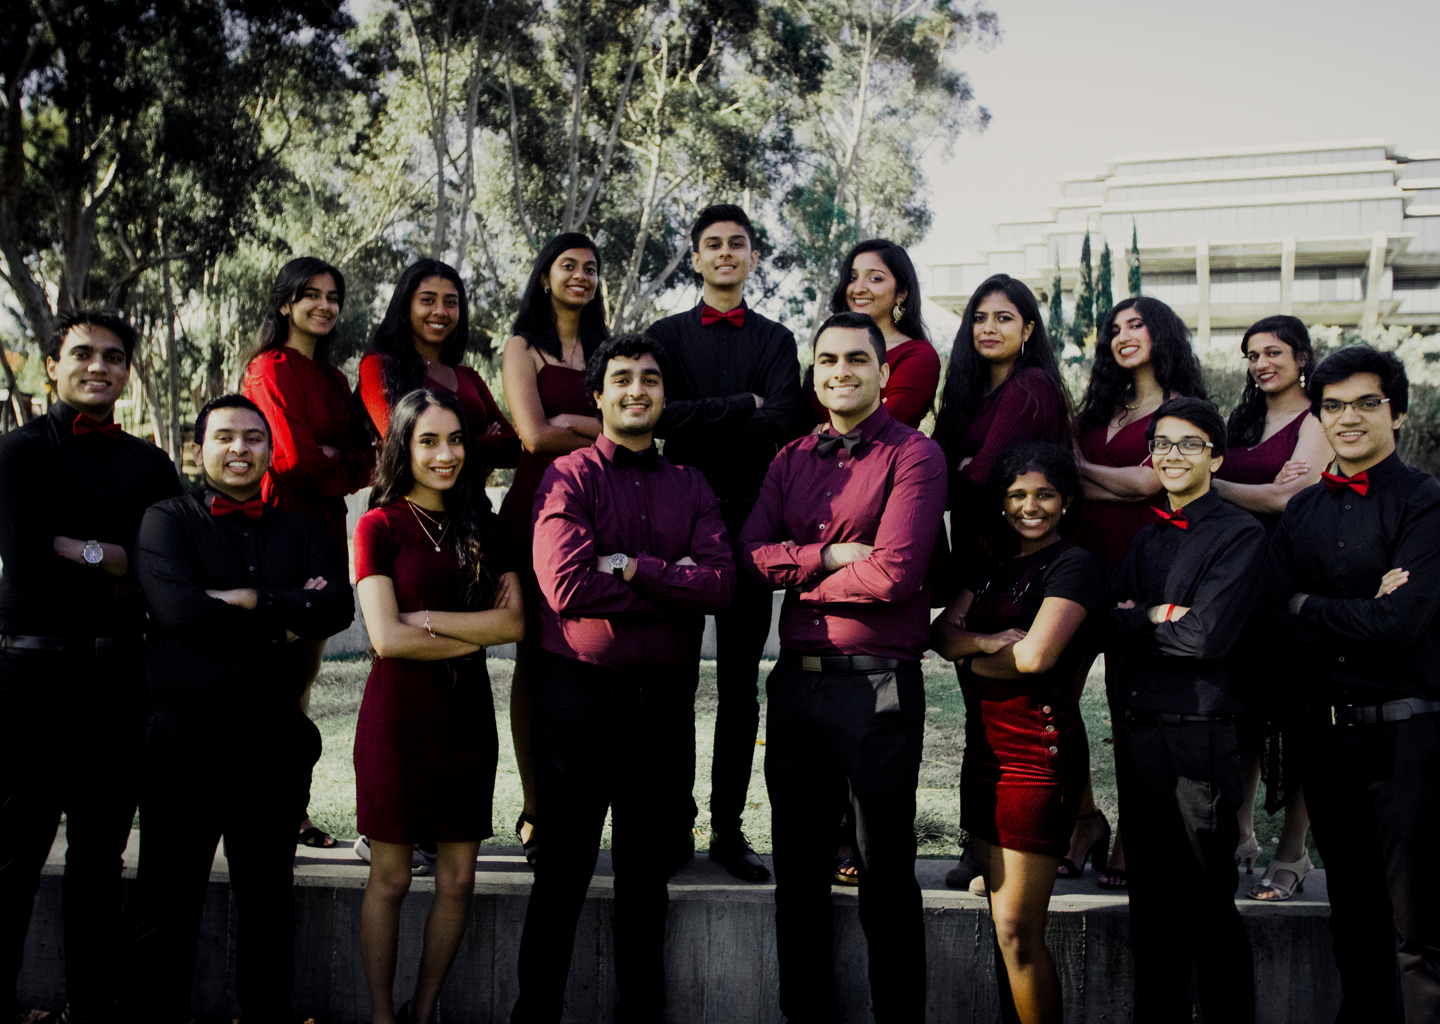
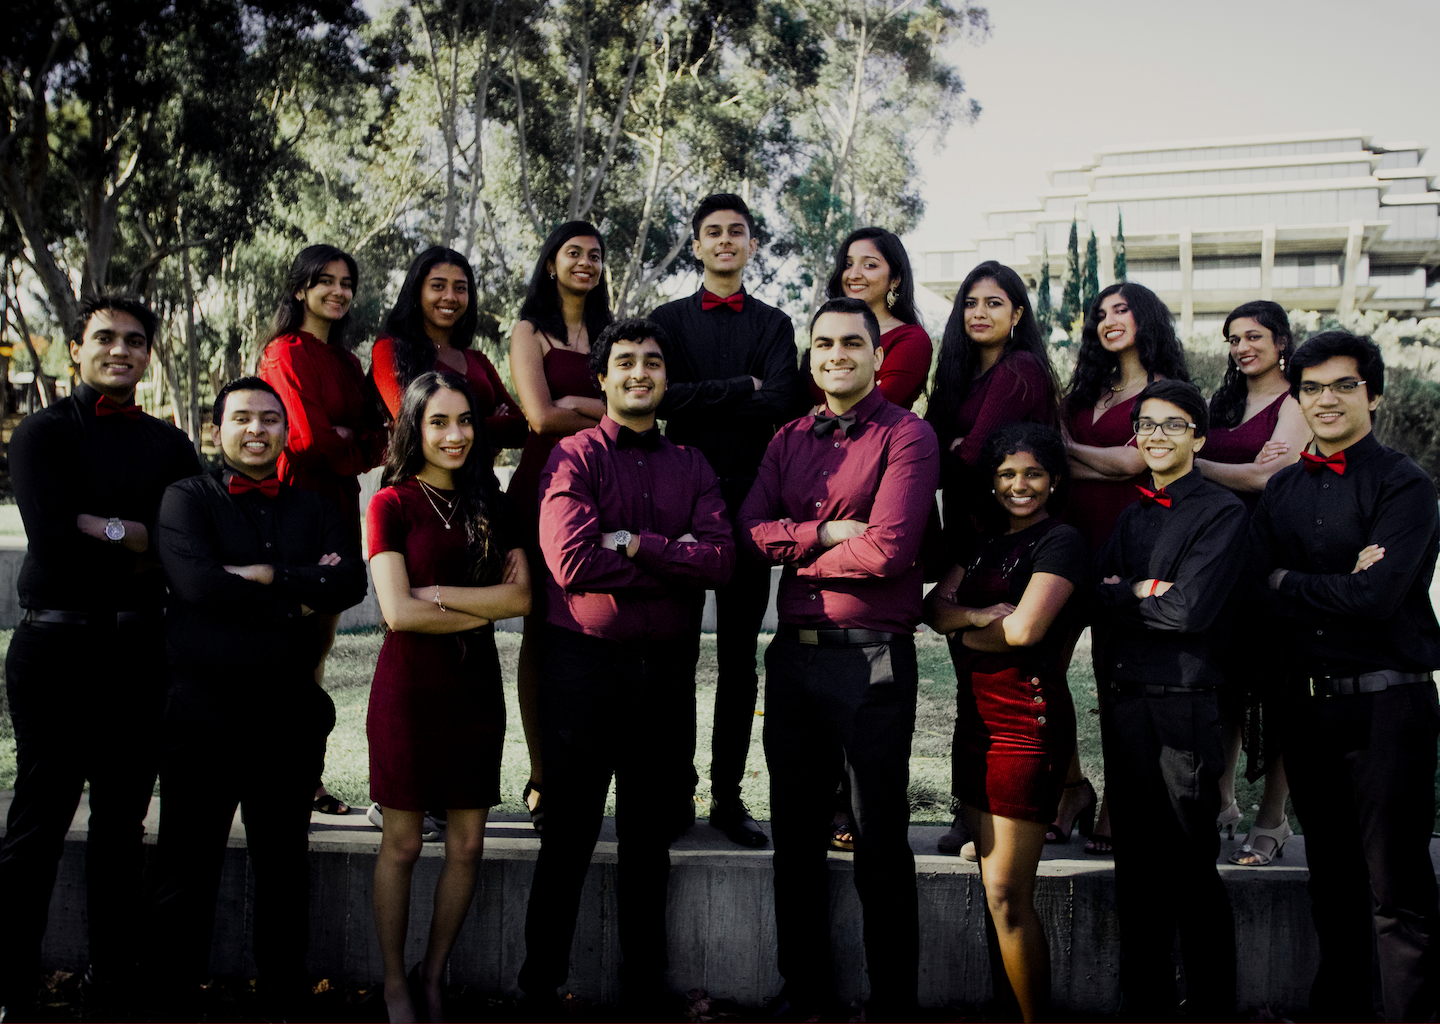
Added Awards section and edited intro img

diff --git a/index.html b/index.html
@@ -77,12 +77,41 @@
 		<h1 class='header'>about</h1>
 		<h2 id='des'>UCSD'S PREMIER SOUTH ASIAN A CAPPELLA TEAM</h2>
 
-		<div id='aboutimg'>
+		<div class='aboutimg'>
 			<img id='aboutimg' src='./images/about.png'>
 			<div class='text'>
 				<p>Sitaare is UCSD’s premier award-winning South Asian A Cappella team. Since its inception in 2006, Sitaare has taken pride in its diverse vocal talent, continuing to explore ways to showcase variety and creativity in their repertoire. Sitaare enjoys performing different genres of both Indian and Western music, from Bollywood and Indian classical, to R&B and pop.  </p> 
 				<p> In addition to UCSD’s cultural events, Sitaare has had the opportunity to perform at community events, weddings, and corporate events in San Diego, the Bay Area, and beyond.</p>
 				<p> Sitaare always looks to push the boundaries of desi a cappella and reach for the stars.</p>
+			</div>
+		</div>	
+		<br>
+		<h2 id='des'>AWARDS AND ACCOLADES</h2>
+		<div id='awards' class='aboutimg'>
+			<img id='awardsimg' src='./images/awards.jpg'>
+			<div class='text'>
+				<br>
+				<h4>2017-2018 Season</h4>
+				<p><a href='https://www.youtube.com/watch?v=dWfKw0v7xlc'><strong>2018 All American Awaaz Bid</strong></a></p>
+				<p><a href='https://youtu.be/dJT3KsZb3a0'><strong>Sahana 2018:</strong></a> First Place</p>
+				<ul>
+					<li>
+						<p>Outstanding Arrangement (Khamoshiyan/Saajan Aayo Re)</p>
+					</li>					<li>
+						<p>Outstanding Choreography</p>
+					</li>
+				</ul>
+				<p><a href='#'><strong>Anahat 2017:</strong></a></p>
+					<ul>
+					<li><p>Outstanding Female Soloist (Rama Kelkar)</p></li>
+					</ul>
+				<br>
+				<h4>2016-2017 Season</h4>
+				<p><a href='https://youtu.be/TCKG22T8dmo'><strong>Awaazein 2017:</strong></a> Second Place</p>
+					<ul>
+					<li><p>Outstanding Theme</p></li>
+					</ul>
+				<br>
 			</div>
 		</div>
 	</div>
@@ -354,16 +383,23 @@
 		<div id = 'galleries'>
 			<h2 class='galleryheader'>Sitaare 2018-2019</h2>
          	<div class="galleria">
-         			<img src='https://is4-ssl.mzstatic.com/image/thumb/Purple118/v4/be/37/93/be379385-c465-70b6-ebfb-44d7eb48f0f9/AppIcon-1-1x_U007emarketing-85-220-6.png/246x0w.jpg'>
+         			<img src='./images/fullteam.png'>
 <!--          		<img src='./images/holder.jpg'>
  -->       		</div>
        		<br>
        		<br>
        		<h2 class='galleryheader'>Sitaare 2017-2018</h2>
        		<div class="galleria">
+       			<img src='https://scontent-sjc3-1.xx.fbcdn.net/v/t31.0-8/25488305_10156073302969374_5976182735293290108_o.jpg?_nc_cat=108&_nc_ht=scontent-sjc3-1.xx&oh=3d8571c67fa4429603bd567832428538&oe=5C8E3F03'>
+       			<img src='https://scontent-sjc3-1.xx.fbcdn.net/v/t31.0-8/25487212_10156073303254374_3663661849959229228_o.jpg?_nc_cat=109&_nc_ht=scontent-sjc3-1.xx&oh=cd7f7febdbf26745ccf514cfe6bf5f06&oe=5CC603A1'>
+       			<img src='https://scontent-sjc3-1.xx.fbcdn.net/v/t31.0-8/25588187_10156073302539374_7759048132505499488_o.jpg?_nc_cat=111&_nc_ht=scontent-sjc3-1.xx&oh=e2ed9f829d1bef39e87adc99a570fd0e&oe=5C8FD3AC'>
+       			<img src='https://scontent-sjc3-1.xx.fbcdn.net/v/t31.0-8/25531876_10156073302874374_3726109421029608392_o.jpg?_nc_cat=100&_nc_ht=scontent-sjc3-1.xx&oh=06c94d65565a640245e006d5ecd3fc4d&oe=5CC6F11F'>
+       			<img src='https://scontent-sjc3-1.xx.fbcdn.net/v/t31.0-8/25487399_10156073302779374_8900789160966912430_o.jpg?_nc_cat=107&_nc_ht=scontent-sjc3-1.xx&oh=940b55d3255f5367f7e638f1f83aa520&oe=5CCD51EE'>
          		<img src='https://photos.smugmug.com/Sahana-Acappella/i-XdVVzKb/0/25edde17/X3/DSC_0148-X3.jpg'>
          		<img src='https://photos.smugmug.com/Sahana-Acappella/i-rB9Z5gd/0/ec0256d7/X3/DSC_0318-X3.jpg'>
          		<img src='https://photos.smugmug.com/Sahana-Acappella/i-Gg2xL26/0/db94d6cc/X3/DSC_0060-X3.jpg'>
+         		<img src='https://scontent-sjc3-1.xx.fbcdn.net/v/t1.0-9/37272494_1751142308308479_1421125006603059200_o.jpg?_nc_cat=109&_nc_ht=scontent-sjc3-1.xx&oh=bc0c7c1aca571cb6ec3f593d1799d26a&oe=5CBC3C9A'>
+         
        		</div>
        		<br>
        		<br>

diff --git a/css/about.css b/css/about.css
@@ -22,19 +22,20 @@
 	max-width: 90%;
 	margin: auto;
 	text-shadow: 2px 2px 8px black;
-	padding-bottom: 10px;
+	padding: 1%;
 
 }
 
-#aboutimg{
+.aboutimg{
 	display: flex;
-	max-width: 80%;
+	max-width: 90%;
 	margin: auto;
 	justify-content: center;
     align-items: center;
 }
 
-#aboutimg img{
+
+.aboutimg img{
 	flex-shrink: 0;
     min-width: 30%;
     min-height: 30%;
@@ -47,16 +48,31 @@
 /*	font-family:  'Avenir Next', 'Arial', sans-serif;
 */}
 
-@media screen and (max-width: 1200px) {
+.aboutimage h4 {
+	text-align: left;
+}
 
-	#aboutimg{
+#awards p {
+	margin: 0;
+}
+
+#awards a {
+	color: white;
+	opacity: 0.7;
+}
+
+
+@media screen and (max-width: 1100px) {
+
+	.aboutimg{
 		display: block;
 		margin: auto;
 		justify-content: center;
 	    align-items: center;
+	    max-width: 80%;
 	}
 
-	#aboutimg img{
+	.aboutimg img{
 		flex-shrink: 0;
 	    min-width: 100%;
 	    max-width: 60%;
@@ -72,6 +88,11 @@
 /*		font-family:  'Avenir Next', 'Arial', sans-serif;
 */		text-align: justify;
 	}
+
+	#awards .text {
+		text-align: left;
+	}
+
 
 	.des {
 		font-size: 15px;

diff --git a/css/contact.css b/css/contact.css
@@ -2,7 +2,7 @@
 	background-color: black;
 }
 
-h4 {
+#contact h4 {
 	text-align: center;
 /*	font-family:  'Avenir Next', 'Arial', sans-serif;
 */
